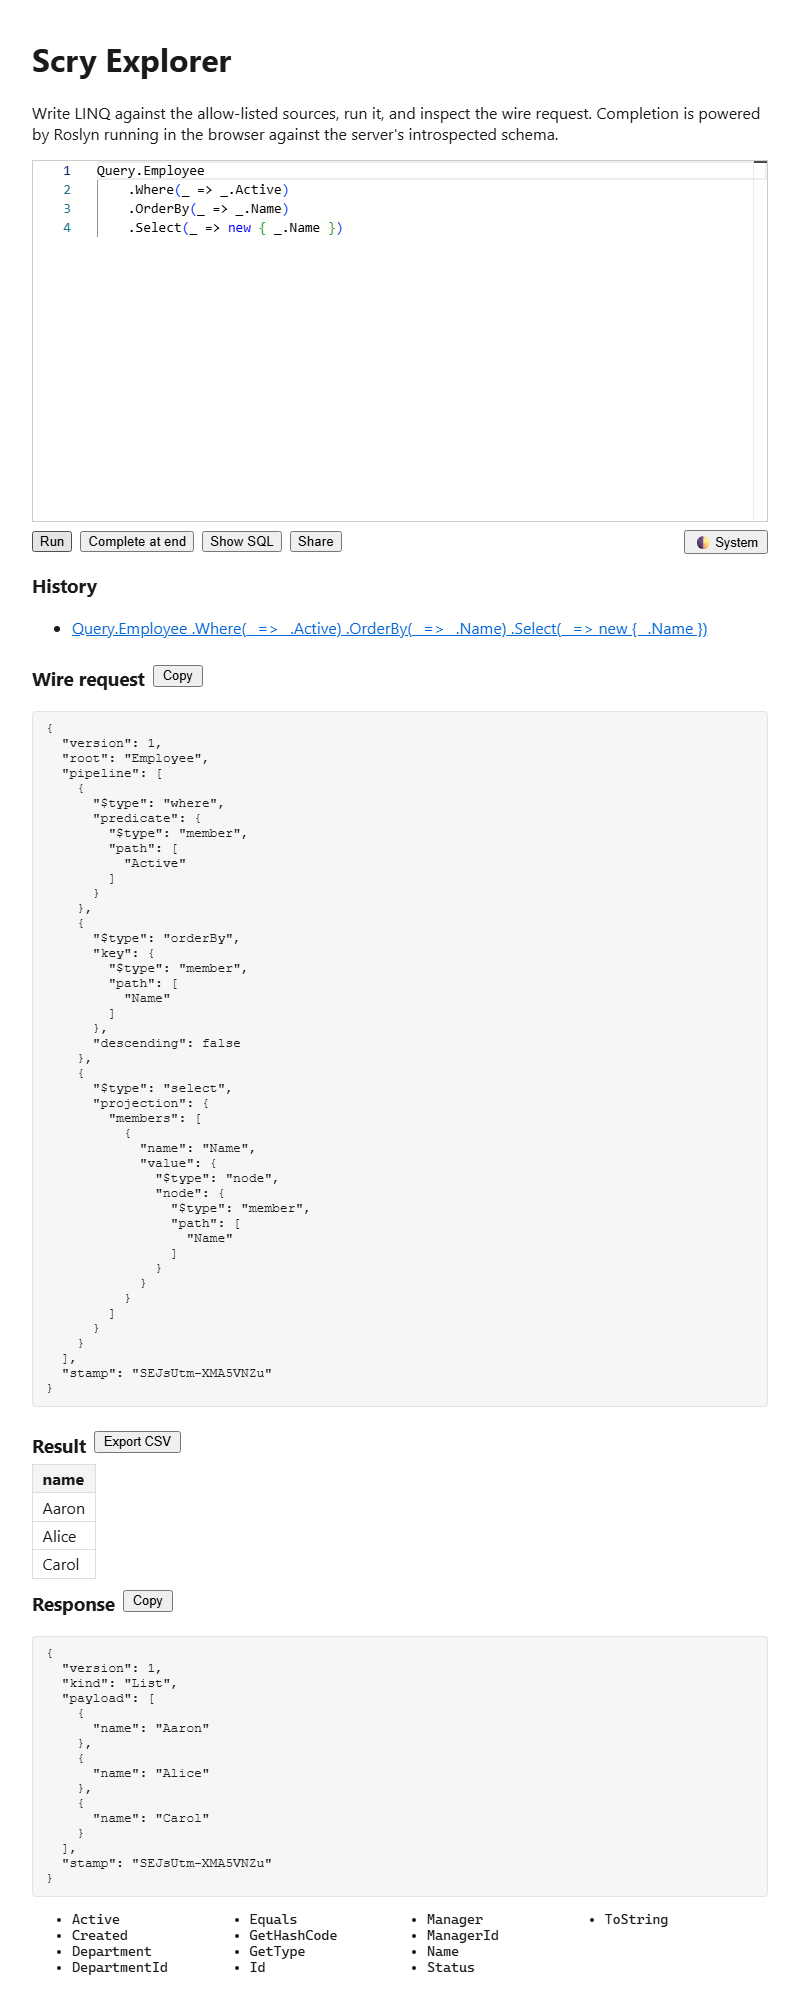
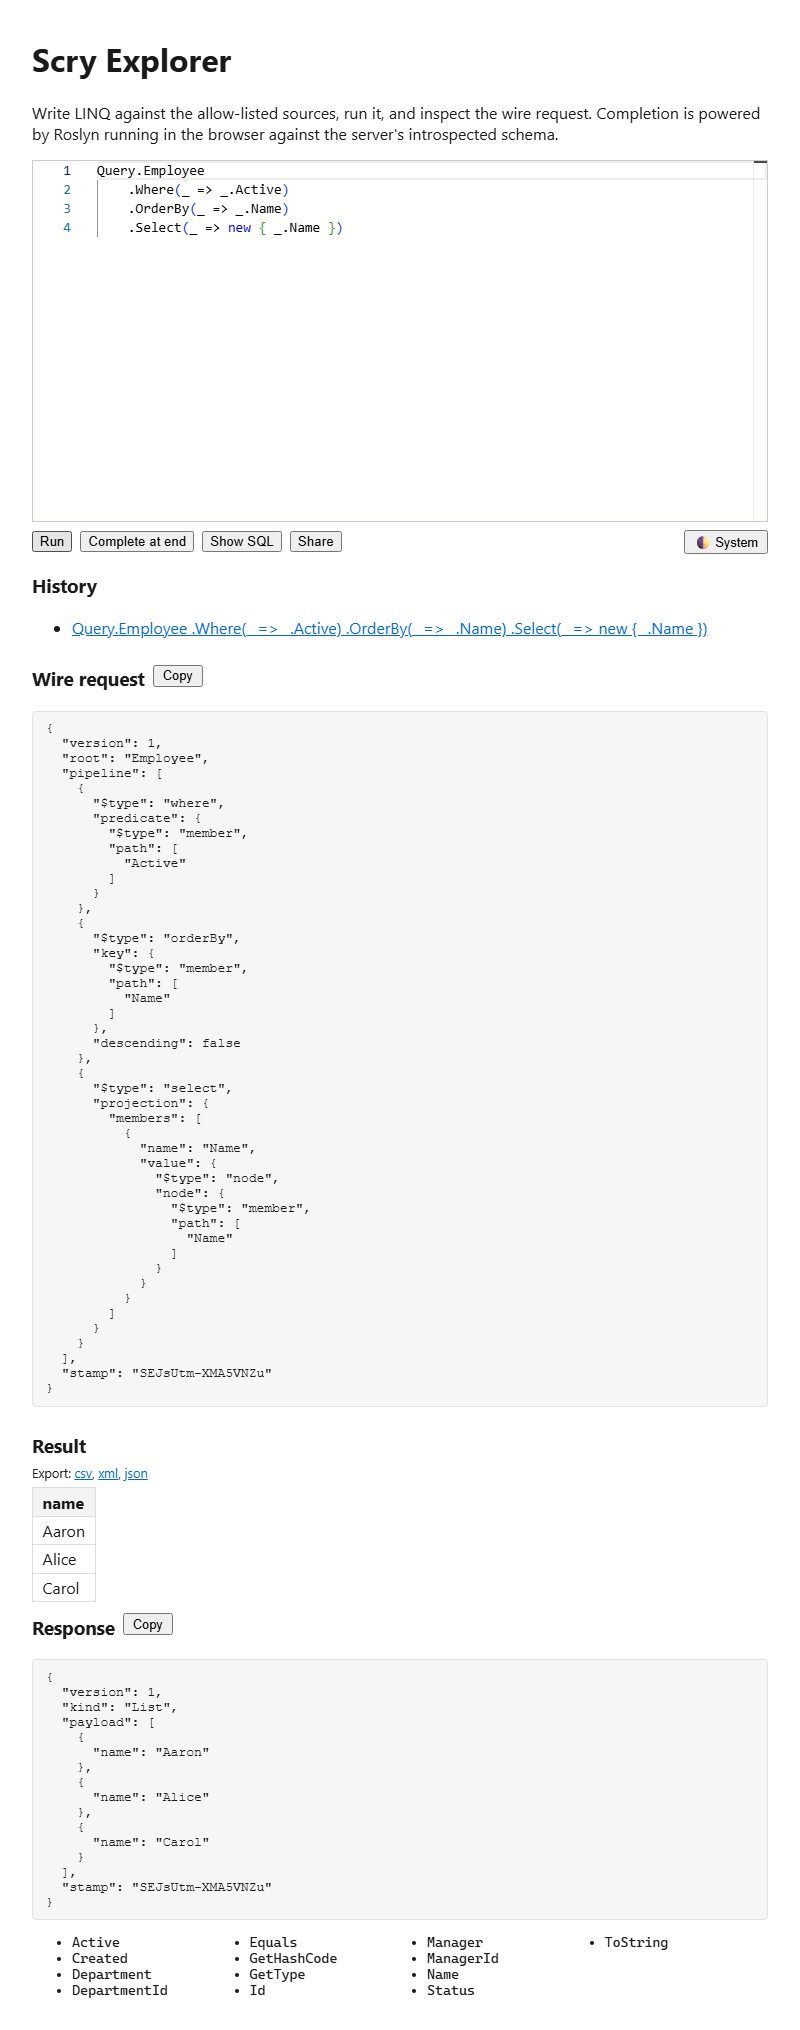
.

diff --git a/src/Scry.Explorer.Ui/wwwroot/js/scry.js b/src/Scry.Explorer.Ui/wwwroot/js/scry.js
@@ -31,11 +31,12 @@ window.scry = {
         history.replaceState(null, '', value);
         return window.location.href;
     },
-    // Save text as a file. The BOM is what makes Excel read the UTF-8 as UTF-8 rather than as the
-    // local codepage, which otherwise mangles any non-ASCII value in an exported column.
-    download: function (name, text, type) {
+    // Save text as a file. The BOM is per-format rather than always on: CSV wants it, because it is
+    // what makes Excel read the UTF-8 as UTF-8 rather than as the local codepage (which otherwise
+    // mangles any non-ASCII value in an exported column), while a leading U+FEFF is not valid JSON.
+    download: function (name, text, type, bom) {
         try {
-            const blob = new Blob(['\ufeff' + text], { type: type });
+            const blob = new Blob([bom ? '\ufeff' + text : text], { type: type });
             const url = URL.createObjectURL(blob);
             const link = document.createElement('a');
             link.href = url;

diff --git a/src/Scry.Explorer.Ui/wwwroot/css/app.css b/src/Scry.Explorer.Ui/wwwroot/css/app.css
@@ -63,6 +63,12 @@ a {
     gap: 0.5rem;
 }
 
+/* The export formats: their own line under the Result heading, as one compact list. */
+.exports {
+    margin: 0 0 0.4rem 0;
+    font-size: 0.8rem;
+}
+
 .pane-head h3 {
     margin: 0.8rem 0 0.4rem 0;
 }

diff --git a/src/Scry.Explorer.Ui/App.razor.cs b/src/Scry.Explorer.Ui/App.razor.cs
@@ -22,6 +22,12 @@ public partial class App
     string? resultJson;
     List<string>? resultColumns;
     List<List<string>>? resultRows;
+    // The same rows unflattened, as the server sent them — what the exports that keep a nested
+    // projection nested are written from.
+    List<JsonElement>? payloadRows;
+    // Whether the result is a flat grid: every cell a scalar. Projecting into a navigation nests an
+    // object inside the row instead, and a tree has no faithful CSV.
+    bool resultFlat;
     string? scalarResult;
     string? error;
     bool editorReady;
@@ -98,6 +104,12 @@ public partial class App
         await Copy(url, "share");
     }
 
+    /// <summary>
+    /// Whether there is anything to export. The exports are of the rows the result table is showing,
+    /// so an empty result offers none of them — and CSV additionally needs <see cref="resultFlat"/>.
+    /// </summary>
+    bool CanExport => resultRows is { Count: > 0 };
+
     /// <summary>Downloads the result table as CSV — the rows as rendered, in their displayed order.</summary>
     async Task DownloadCsv()
     {
@@ -114,8 +126,51 @@ public partial class App
             builder.AppendLine(string.Join(",", row.Select(Csv)));
         }
 
-        await JS.InvokeVoidAsync("scry.download", "scry-result.csv", builder.ToString(), "text/csv;charset=utf-8");
+        // The BOM is what makes Excel read the UTF-8 as UTF-8 rather than as the local codepage, which
+        // otherwise mangles any non-ASCII value in an exported column.
+        await Download("csv", "text/csv;charset=utf-8", builder.ToString(), bom: true);
     }
+
+    /// <summary>
+    /// Downloads the rows as JSON, exactly as the server sent them. Unlike CSV this keeps a nested
+    /// projection nested, so it is offered for every result the table can render.
+    /// </summary>
+    async Task DownloadJson()
+    {
+        if (payloadRows is null)
+        {
+            return;
+        }
+
+        // No BOM: a leading U+FEFF is not valid JSON, and strict parsers reject it.
+        await Download("json", "application/json", JsonSerializer.Serialize(payloadRows, indented), bom: false);
+    }
+
+    /// <summary>
+    /// Downloads the rows as XML — a <c>row</c> element each, with a child element per member. Like
+    /// JSON, and unlike CSV, a nested projection stays nested.
+    /// </summary>
+    async Task DownloadXml()
+    {
+        if (payloadRows is null)
+        {
+            return;
+        }
+
+        var builder = new StringBuilder();
+        builder.AppendLine("""<?xml version="1.0" encoding="utf-8"?>""");
+        builder.AppendLine("<results>");
+        foreach (var row in payloadRows)
+        {
+            WriteXml(builder, "row", row, depth: 1);
+        }
+
+        builder.Append("</results>");
+        await Download("xml", "application/xml", builder.ToString(), bom: false);
+    }
+
+    Task Download(string extension, string type, string text, bool bom) =>
+        JS.InvokeVoidAsync("scry.download", $"scry-result.{extension}", text, type, bom).AsTask();
 
     // RFC 4180: a field containing a comma, a quote, or a newline is quoted, and quotes inside it are
     // doubled. Everything else is written as-is.
@@ -127,6 +182,98 @@ public partial class App
         }
 
         return $"\"{value.Replace("\"", "\"\"")}\"";
+    }
+
+    static void WriteXml(StringBuilder builder, string name, JsonElement value, int depth)
+    {
+        var indent = new string(' ', depth * 2);
+
+        // An absent value stays an empty element rather than being dropped, so every row keeps the
+        // same shape.
+        if (value.ValueKind == JsonValueKind.Null)
+        {
+            builder.Append(indent).Append('<').Append(name).AppendLine(" />");
+            return;
+        }
+
+        if (value.ValueKind is not (JsonValueKind.Object or JsonValueKind.Array))
+        {
+            builder.Append(indent).Append('<').Append(name).Append('>')
+                .Append(Xml(value.ToString()))
+                .Append("</").Append(name).AppendLine(">");
+            return;
+        }
+
+        builder.Append(indent).Append('<').Append(name).AppendLine(">");
+        if (value.ValueKind == JsonValueKind.Object)
+        {
+            foreach (var property in value.EnumerateObject())
+            {
+                WriteXml(builder, XmlName(property.Name), property.Value, depth + 1);
+            }
+        }
+        else
+        {
+            foreach (var item in value.EnumerateArray())
+            {
+                WriteXml(builder, "item", item, depth + 1);
+            }
+        }
+
+        builder.Append(indent).Append("</").Append(name).AppendLine(">");
+    }
+
+    // Text content: the three characters that cannot appear literally are escaped, and the control
+    // characters XML 1.0 forbids outright are dropped — a value that came out of a column should not
+    // be able to produce a document no parser will open.
+    static string Xml(string value)
+    {
+        var builder = new StringBuilder(value.Length);
+        foreach (var character in value)
+        {
+            switch (character)
+            {
+                case '&':
+                    builder.Append("&amp;");
+                    break;
+                case '<':
+                    builder.Append("&lt;");
+                    break;
+                case '>':
+                    builder.Append("&gt;");
+                    break;
+                default:
+                    if (character is '\t' or '\n' or '\r' ||
+                        character >= ' ')
+                    {
+                        builder.Append(character);
+                    }
+
+                    break;
+            }
+        }
+
+        return builder.ToString();
+    }
+
+    // Member names come from the caller's own C# identifiers, so they already are valid XML names —
+    // but the rows are the server's response, and an export should never be able to emit a name that
+    // does not parse. Anything outside a name character becomes '_'.
+    static string XmlName(string name)
+    {
+        if (name.Length == 0)
+        {
+            return "_";
+        }
+
+        var builder = new StringBuilder(name.Length);
+        builder.Append(char.IsLetter(name[0]) || name[0] == '_' ? name[0] : '_');
+        foreach (var character in name.AsSpan(1))
+        {
+            builder.Append(char.IsLetterOrDigit(character) || character is '_' or '-' or '.' ? character : '_');
+        }
+
+        return builder.ToString();
     }
 
     /// <summary>
@@ -202,6 +349,8 @@ public partial class App
             error = null;
             resultColumns = null;
             resultRows = null;
+            payloadRows = null;
+            resultFlat = false;
             scalarResult = null;
             sqlText = null;
             var code = await editor.GetValue();
@@ -514,7 +663,7 @@ public partial class App
         }
 
         var columns = new List<string>();
-        var rows = new List<List<string>>();
+        var payloads = new List<JsonElement>();
         foreach (var row in payload.EnumerateArray())
         {
             if (row.ValueKind != JsonValueKind.Object)
@@ -527,11 +676,10 @@ public partial class App
                 columns.AddRange(row.EnumerateObject().Select(_ => _.Name));
             }
 
-            rows.Add(row.EnumerateObject().Select(_ => _.Value.ToString()).ToList());
+            payloads.Add(row);
         }
 
-        resultColumns = columns;
-        resultRows = rows;
+        Publish(columns, payloads);
     }
 
     // A Single result is one projected object (or null) — render it as a one-row table, reusing the
@@ -550,8 +698,21 @@ public partial class App
             return;
         }
 
-        resultColumns = payload.EnumerateObject().Select(_ => _.Name).ToList();
-        resultRows = [payload.EnumerateObject().Select(_ => _.Value.ToString()).ToList()];
+        Publish(payload.EnumerateObject().Select(_ => _.Name).ToList(), [payload]);
+    }
+
+    // Renders the rows for display and classifies them. A cell that is itself an object or an array
+    // came from a projection into a navigation: the result is a tree rather than a grid, which is
+    // what decides whether CSV is on offer.
+    void Publish(List<string> columns, List<JsonElement> rows)
+    {
+        resultColumns = columns;
+        payloadRows = rows;
+        resultRows = rows
+            .Select(_ => _.EnumerateObject().Select(property => property.Value.ToString()).ToList())
+            .ToList();
+        resultFlat = rows.All(row => row.EnumerateObject()
+            .All(_ => _.Value.ValueKind is not (JsonValueKind.Object or JsonValueKind.Array)));
     }
 
     static int ToOffset(string text, int line, int column)

diff --git a/samples/Sample.Tests/UiSnapshotTests.cs b/samples/Sample.Tests/UiSnapshotTests.cs
@@ -1,3 +1,6 @@
+using System.Text.Json;
+using System.Xml.Linq;
+
 // Drives the live WebAssembly UI in a headless browser, asserting behaviour and snapshotting the
 // rendered markup as text. The pixel snapshots live in UiScreenshotTests.
 // Categorised "Browser" so a run can opt out: the browser download and WASM boot are heavier than
@@ -321,10 +324,11 @@ public class UiSnapshotTests :
         Assert.That(await page.Locator("[data-testid='error']").CountAsync(), Is.Zero);
     }
 
-    // The result table exports as CSV. The download itself is the browser's, so the test intercepts
-    // the interop call and asserts the payload the UI produced.
+    // A flat result exports in all three formats. The download itself is the browser's, so the test
+    // intercepts the interop call and asserts the payload the UI produced — all from one run, because
+    // a cold WASM+Roslyn boot costs far more than the three clicks it is set up for.
     [Test]
-    public async Task ExplorerExportsResultsAsCsv()
+    public async Task ExplorerExportsResults()
     {
         var page = await Browser.NewPageAsync();
         await page.GotoAsync($"{BaseUrl}/scry");
@@ -339,23 +343,89 @@ public class UiSnapshotTests :
             """);
         await page.Locator("[data-testid='run']").ClickAsync();
         await page.WaitForSelectorAsync("[data-testid='result-table'] tbody tr", 30);
+        await InterceptDownloadsAsync(page);
 
-        await page.EvaluateAsync(
+        var csv = await ExportAsync(page, "csv");
+        Assert.That(csv.Name, Is.EqualTo("scry-result.csv"));
+        Assert.That(csv.Text, Does.StartWith("name,status"));
+        Assert.That(csv.Text, Does.Contain("Alice,FullTime"));
+        // Excel reads a BOM-less UTF-8 CSV as the local codepage; the other two formats do not want one.
+        Assert.That(csv.Bom, Is.True);
+
+        var json = await ExportAsync(page, "json");
+        Assert.That(json.Name, Is.EqualTo("scry-result.json"));
+        Assert.That(json.Bom, Is.False, "a leading U+FEFF is not valid JSON");
+        using var document = JsonDocument.Parse(json.Text);
+        var rows = document.RootElement.EnumerateArray().ToList();
+        Assert.That(rows, Is.Not.Empty);
+        Assert.That(
+            rows.Select(_ => _.GetProperty("name").GetString()),
+            Does.Contain("Alice"));
+
+        var xml = await ExportAsync(page, "xml");
+        Assert.That(xml.Name, Is.EqualTo("scry-result.xml"));
+        Assert.That(xml.Bom, Is.False);
+        var results = XDocument.Parse(xml.Text).Root!;
+        Assert.That(results.Name.LocalName, Is.EqualTo("results"));
+        Assert.That(
+            results.Elements("row").Select(_ => _.Element("name")!.Value),
+            Does.Contain("Alice"));
+    }
+
+    // CSV is a grid, so it is offered only for a result that is one. Projecting into a navigation
+    // nests an object inside every row: the CSV button goes away, and JSON and XML — which can carry
+    // the nesting — stay.
+    [Test]
+    public async Task ExplorerOffersCsvOnlyForAFlatResult()
+    {
+        var page = await Browser.NewPageAsync();
+        await page.GotoAsync($"{BaseUrl}/scry");
+        await page.WaitForSelectorAsync(".monaco-editor", 30);
+        await page.WaitForSelectorAsync("[data-testid='completions'] li", 90);
+
+        await page.SetEditorValueAsync(
+            """
+            Query.Employee
+                .Where(_ => _.Active)
+                .Select(_ => new { _.Name, Department = new { _.Department!.Name } })
+            """);
+        await page.Locator("[data-testid='run']").ClickAsync();
+        await page.WaitForSelectorAsync("[data-testid='result-table'] tbody tr", 30);
+
+        Assert.That(await page.Locator("[data-testid='csv']").CountAsync(), Is.Zero, "nested rows are not a grid");
+        Assert.That(await page.Locator("[data-testid='json']").CountAsync(), Is.EqualTo(1));
+        Assert.That(await page.Locator("[data-testid='xml']").CountAsync(), Is.EqualTo(1));
+
+        await InterceptDownloadsAsync(page);
+        var xml = await ExportAsync(page, "xml");
+
+        // The navigation is a child element rather than a flattened column.
+        var department = XDocument.Parse(xml.Text).Root!.Elements("row").First().Element("department");
+        Assert.That(department, Is.Not.Null);
+        Assert.That(department!.Element("name")!.Value, Is.Not.Empty);
+    }
+
+    // Replaces the real file-saving interop with a recorder, so an export can be asserted rather than
+    // landing in the browser's downloads directory.
+    static Task InterceptDownloadsAsync(IPage page) =>
+        page.EvaluateAsync(
             """
             () => {
-                window.__csv = null;
-                window.scry.download = (name, text, type) => window.__csv = { name, text, type };
+                window.__file = null;
+                window.scry.download = (name, text, type, bom) => window.__file = { name, text, type, bom };
             }
             """);
-        await page.Locator("[data-testid='csv']").ClickAsync();
-        await page.WaitForFunctionAsync("() => window.__csv !== null", null, new() {Timeout = 30_000});
 
-        var name = await page.EvaluateAsync<string>("() => window.__csv.name");
-        var text = await page.EvaluateAsync<string>("() => window.__csv.text");
+    static async Task<(string Name, string Text, bool Bom)> ExportAsync(IPage page, string format)
+    {
+        await page.EvaluateAsync("() => window.__file = null");
+        await page.Locator($"[data-testid='{format}']").ClickAsync();
+        await page.WaitForFunctionAsync("() => window.__file !== null", null, new() {Timeout = 30_000});
 
-        Assert.That(name, Is.EqualTo("scry-result.csv"));
-        Assert.That(text, Does.StartWith("name,status"));
-        Assert.That(text, Does.Contain("Alice,FullTime"));
+        return (
+            await page.EvaluateAsync<string>("() => window.__file.name"),
+            await page.EvaluateAsync<string>("() => window.__file.text"),
+            await page.EvaluateAsync<bool>("() => !!window.__file.bom"));
     }
 
     // Proves the inline Monaco IntelliSense dropdown is wired to the Roslyn provider.

diff --git a/docs/explorer.md b/docs/explorer.md
@@ -94,7 +94,9 @@ Three things the explorer does with the query in the editor, beyond running it.
 
 **Share a link.** *Share* puts the query in the URL and copies the link. It is placed in the **fragment** (`/scry/#q=…`), which browsers never send to the server — so a shared query cannot land in an access log, a proxy trace, or a referrer header on the way. Opening the link loads the query into the editor; a fragment that does not decode is ignored, and the explorer opens on its sample query rather than on an error.
 
-**Export the results.** *Export CSV* saves the result table as it is displayed — same columns, same order, RFC 4180 quoting, with a UTF-8 BOM so Excel reads non-ASCII values correctly.
+**Export the results.** The *Export:* line under the result table saves the rows it is showing — same rows, same order — as `csv`, `xml`, or `json`.
+
+`csv` writes them as displayed, with RFC 4180 quoting and a UTF-8 BOM so Excel reads non-ASCII values correctly. It is offered only for a **flat** result: [projecting into a navigation](wire-format.md) nests an object inside each row, and a grid cannot hold that without flattening the shape away. `xml` (a `row` element each, a child element per member) and `json` (the rows exactly as the server sent them) keep the nesting, so they are offered for every result the table can render.
 
 **See the SQL.** Covered next.
 
